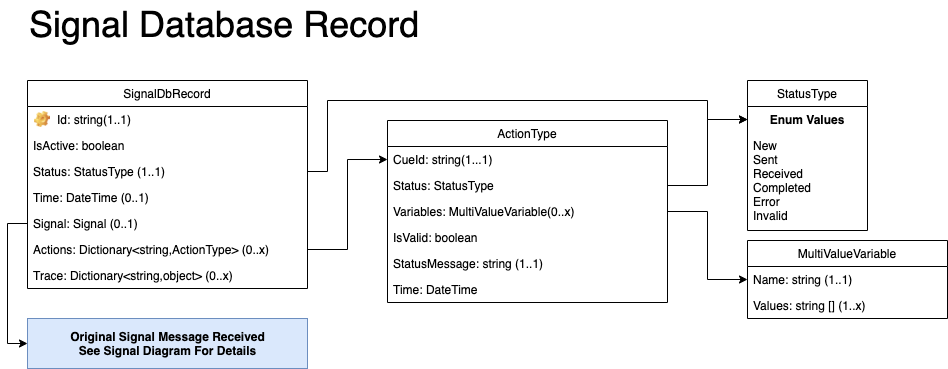
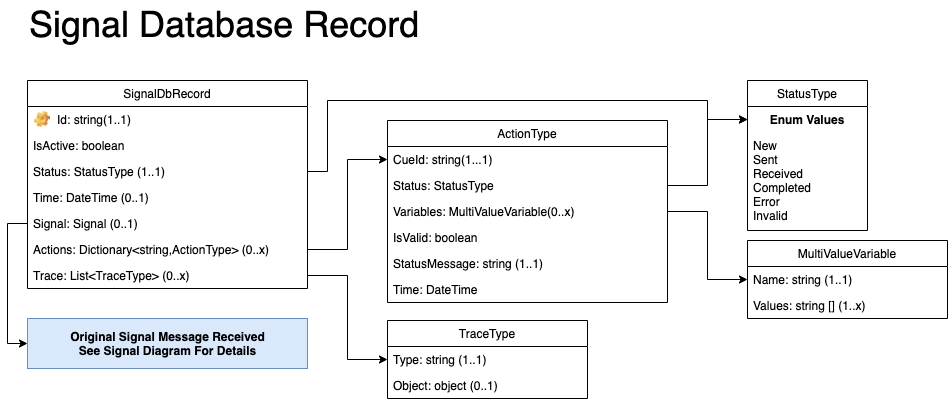
Update Trace in Signal DB Record and ResolverRequest to be a list.

diff --git a/docs/classes/database/signal-db.md b/docs/classes/database/signal-db.md
@@ -20,16 +20,22 @@ Referenced Classes:
         "_isActive": { "type": "boolean" },
         "_status": { "type": "string", "pattern": "^New|Sent Received|SentToResolver|Completed|Error|Invalid$" },
         "_time": { "type": "string", "format": "date" },
-        "signal": { "type": "object"                   
-             ** Insert Signal Request Json Schema Here **     
+        "signal": { "type": "object"
+            *** Insert Signal Schema Here ***
         },
-        "actions": { "type": "string" },
-        "_trace": { "type": "object",
+        "trace": { "type": "array",
+          "required": ["type"],
+          "properties": {
+           	"type": { "type": "string"},
+            "object": { "type": "object" }
+          }
+        },
+        "actions": { "type": "object",
           "additionalProperties": {
              "type": "object",
              "properties": {
                "cueId": {"type": "string" },
-               "variables": {"type": "object",
+               "variables": {"type": "array",
                  "required": [ "name", "values" ],
                  "properties": {
                    "name": { "type": "string" },
@@ -49,6 +55,7 @@ Referenced Classes:
     }
 }
 
+
 ````
 
 ### Field Descriptions
@@ -62,7 +69,7 @@ Referenced Classes:
 |_time|Datetime|Yes|The time the message was originally received.
 |signal|[Signal](../requests/signal-request.md#signal)|Yes|The original signal message sent from the reporter.
 |actions|Dictionary of [ActionType](#actiontype)|No|Actions that have been taken against the signal message by one or more subscribers.
-|_trace|Dictionary of Json Object|No|This is the "log" for all actions, updates, results associated with signal message.
+|_trace|List of [TraceObject](#traceobject)|No|This is the "log" for all actions, updates, results associated with signal message.
 
 #### **ActionType**
 |Field|Type|Required|Description
@@ -76,6 +83,12 @@ Referenced Classes:
 |-----|----|--------|-----------
 |name|String|Yes|The variable name
 |values|List of String|No|The value(s) associated with the variable. 
+
+#### **TraceObject**
+|Field|Type|Required|Description
+|-----|----|--------|-----------
+|type|String|Yes|The object's type.
+|object|JSON Object|No|The Json Serialized version of the object. 
 
 
 ### Examples
@@ -95,41 +108,47 @@ The message below represents a resolver that monitors server uptime and asks sub
   "_isActive": true,
   "_status": "Completed",
   "_time": "2020-10-07T22:28:15.8693223Z",
-  "_trace": {
-    "0X86F5LKV_SignalReply": {
-      "id": "0X86F3V1P",
-      "results": [
-        {
-          "channelId": "DevSlackChannel",
-          "channelType": "teams",
-          "code": "Success",
-          "message": "Success"
-        },
-        {
-          "channelId": "DevTeamsChannel",
-          "channelType": "slack",
-          "code": "Success",
-          "message": "Success"
-        }
-      ],
-      "statusCode": "Success",
-      "time": "2020-10-07T22:28:08.4267512Z"
+  "_trace": [
+    {
+      "type": "SignalReply",
+      "object": {
+          "id": "0X86F3V1P",
+          "results": [
+            {
+              "channelId": "DevSlackChannel",
+              "channelType": "teams",
+              "code": "Success",
+              "message": "Success"
+            },
+            {
+              "channelId": "DevTeamsChannel",
+              "channelType": "slack",
+              "code": "Success",
+              "message": "Success"
+            }
+          ],
+          "statusCode": "Success",
+          "time": "2020-10-07T22:28:08.4267512Z"
+      }
     },
-    "0X86GPKOM_Status": {
-      "actionId": "0X86G2NAS",
-      "closeSignal": false,
-      "data": {
-        "action": [
-          "hibernate"
-        ]
-      },
-      "id": "0X86F3V1P",
-      "isValidReply": true,
-      "message": "action : hibernate",
-      "newStatus": "Completed",
-      "sendToChannels": true
+    {
+      "type": "Status",
+      "object": {
+          "actionId": "0X86G2NAS",
+          "closeSignal": false,
+          "data": {
+            "action": [
+              "hibernate"
+            ]
+          },
+          "id": "0X86F3V1P",
+          "isValidReply": true,
+          "message": "action : hibernate",
+          "newStatus": "Completed",
+          "sendToChannels": true
+      }
     }
-  },
+  ],
   "actions": {
     "0X86G2NAS": {
       "cueId": "ec2",

diff --git a/docs/resolvers/overview.md b/docs/resolvers/overview.md
@@ -110,8 +110,12 @@ Referenced Classes:
         }
       }
     },
-    "trace": {
-      "type": "object"
+    "trace": { "type": "array",
+      "required": ["type"],
+      "properties": {
+        "type": { "type": "string"},
+        "object": { "type": "object" }
+      }
     }
   }
 }
@@ -127,7 +131,7 @@ Referenced Classes:
 |cueId|String|Yes|The name of the CueOption in the Signal message that was selected by the subscriber on which the action was taken.
 |signal|Signal|Yes|The original signal message sent to the subscribers.
 |actions|Dictionary of [ActionType](#actiontype)|Yes|A dictionary of all actions taken against this signal (including the current action).
-|trace|Dictionary of Object (JSON)|No|A log of events that have occured for this signal message.
+|_trace|List of [TraceObject](#traceobject)|No|This is the "log" for all actions, updates, results associated with signal message.
 
 #### **ActionType**
 |Field|Type|Required|Description
@@ -145,6 +149,12 @@ Referenced Classes:
 |-----|----|--------|-----------
 |name|String|Yes|The variable name.
 |values|List of String|No|The value or values selected for the variable.
+
+#### **TraceObject**
+|Field|Type|Required|Description
+|-----|----|--------|-----------
+|type|String|Yes|The object's type.
+|object|JSON Object|No|The Json Serialized version of the object. 
 
 ### Examples
 
@@ -228,26 +238,29 @@ Referenced Classes:
             "time": "2020-10-07T20:02:09.0104309Z"
         }
     },
-    "trace": {
-        "0X7ZKJZQ9_SignalReply": {
-            "id": "0X7ZKIFE4",
-            "time": "2020-10-07T20:00:10.609855Z",
-            "results": [
-                {
-                    "channelType": "teams",
-                    "code": "Success",
-                    "message": "Success",
-                    "channelId": "_defaultTeams"
-                },
-                {
-                    "channelType": "slack",
-                    "code": "Success",
-                    "message": "Success",
-                    "channelId": "_default"
-                }
-            ],
-            "statusCode": "Success"
+    "trace": [
+        {
+            "type": "SignalReply",
+            "object": {
+                "id": "0X7ZKIFE4",
+                "time": "2020-10-07T20:00:10.609855Z",
+                "results": [
+                    {
+                        "channelType": "teams",
+                        "code": "Success",
+                        "message": "Success",
+                        "channelId": "_defaultTeams"
+                    },
+                    {
+                        "channelType": "slack",
+                        "code": "Success",
+                        "message": "Success",
+                        "channelId": "_default"
+                    }
+                ],
+                "statusCode": "Success"
+            }
         }
-    }
+    ]
 }
 ````
